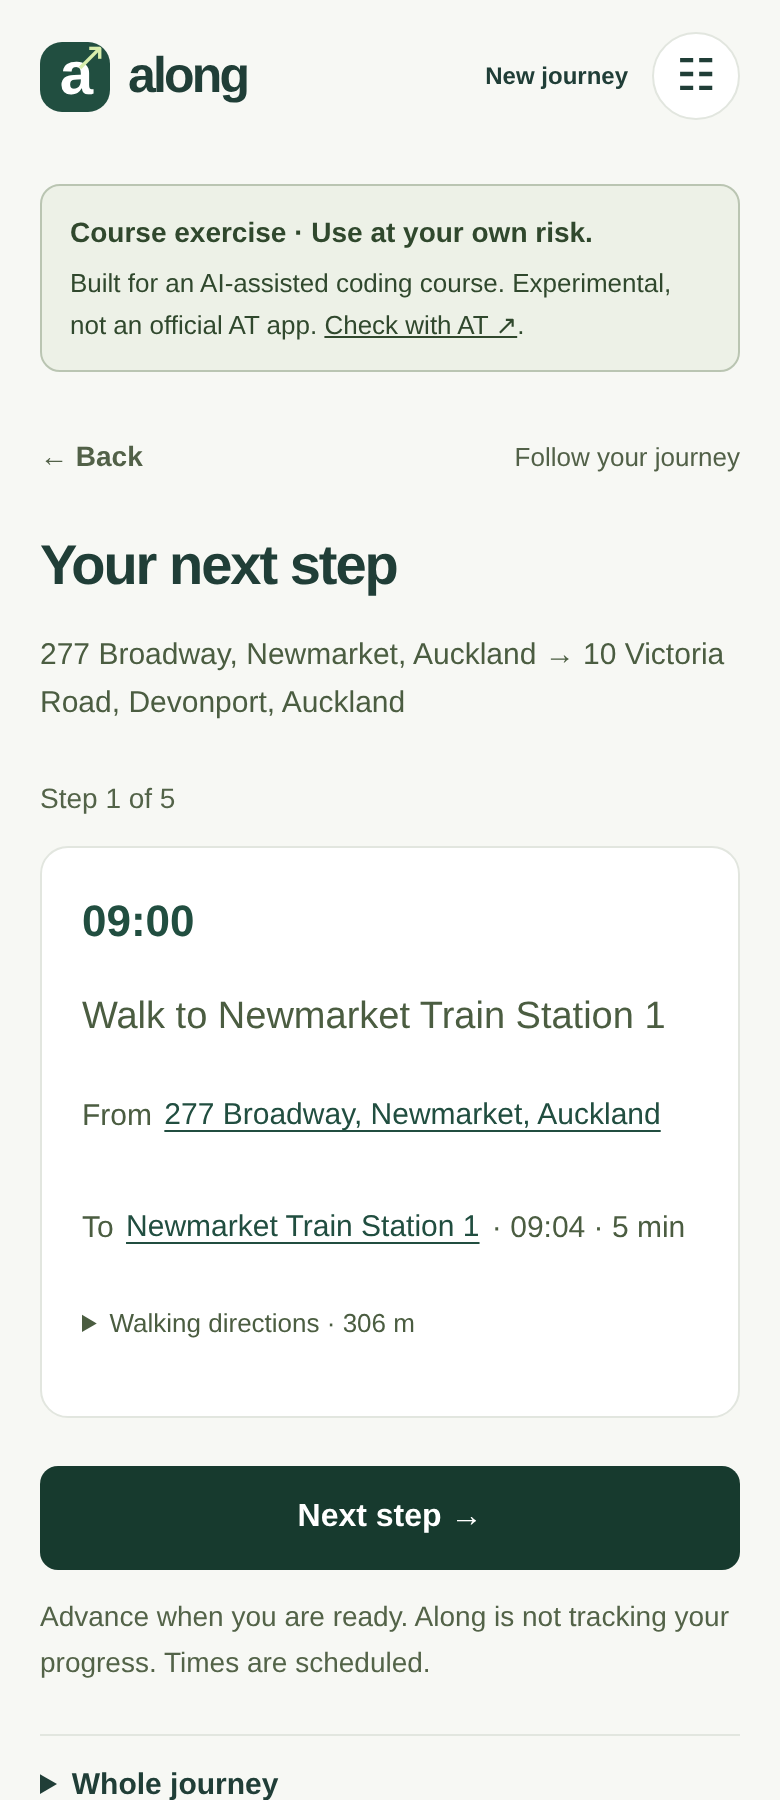
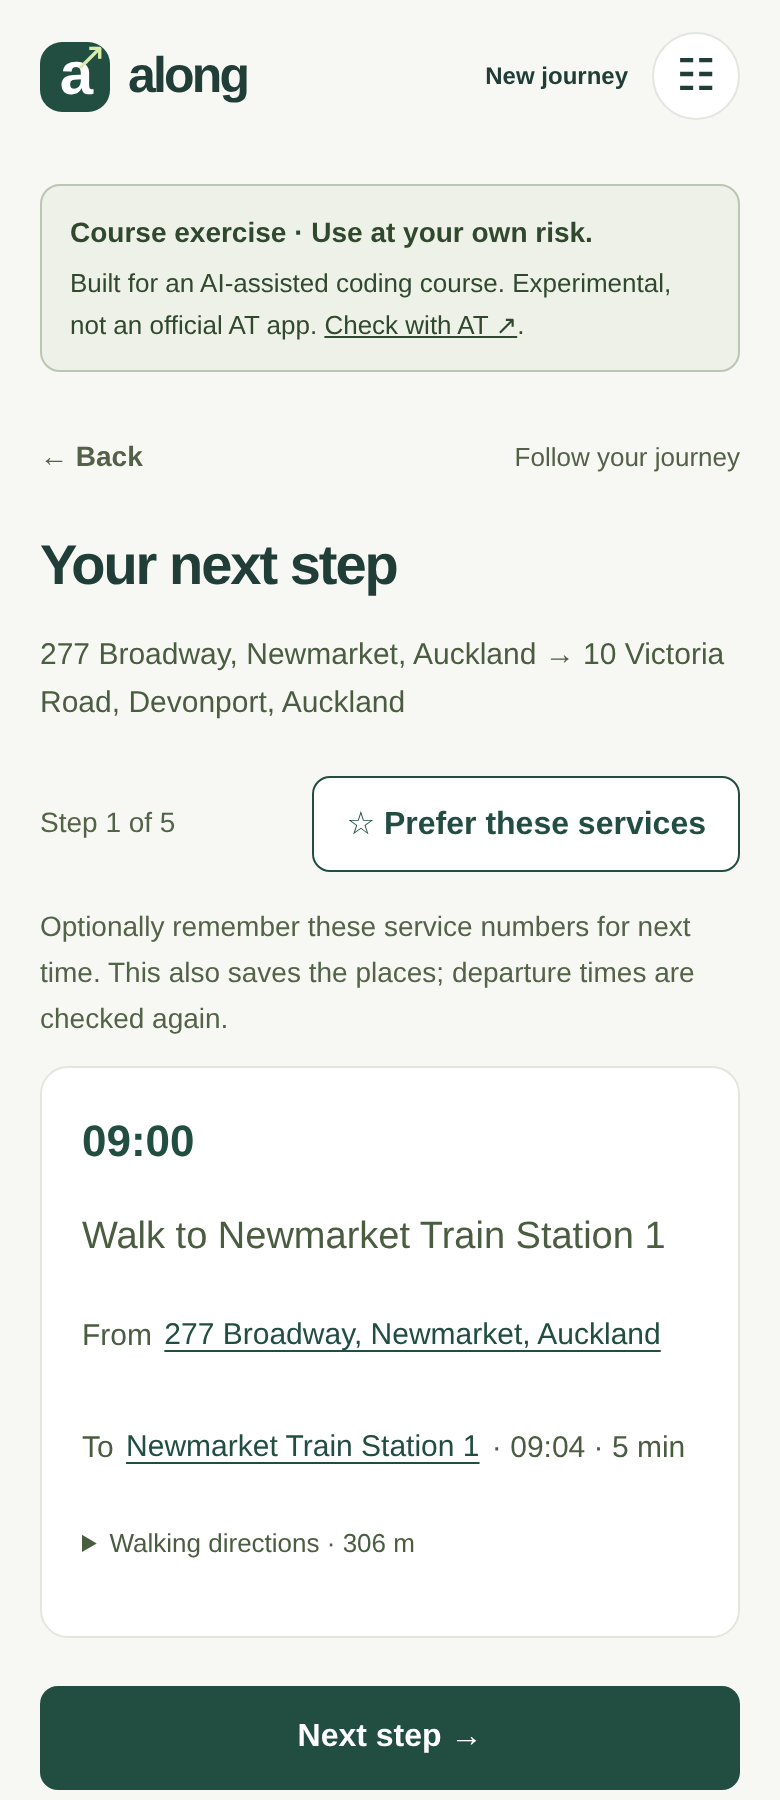
Refresh public UX examples for saved places and departure boards

diff --git a/README.md b/README.md
@@ -96,6 +96,11 @@ online OpenStreetMap background, not live vehicle tracking. Tap a screenshot to 
 <td width="50%"><a href="docs/screenshots/03-follow.png"><img src="docs/screenshots/03-follow.png" width="100%" alt="The journey view shows the current walking step and Next step action."></a></td>
 <td width="50%"><a href="docs/screenshots/04-route-map.png"><img src="docs/screenshots/04-route-map.png" width="100%" alt="Route 70's published path and stop markers over a street-map background, with scheduled-service choices below."></a></td>
 </tr>
+<tr><th>Save places before choosing a route</th><th>Read scheduled stop departures</th></tr>
+<tr>
+<td width="50%"><a href="docs/screenshots/05-save-places.png"><img src="docs/screenshots/05-save-places.png" width="100%" alt="The review screen offers Save these places before finding a route, without saving a departure time."></a></td>
+<td width="50%"><a href="docs/screenshots/06-departures.png"><img src="docs/screenshots/06-departures.png" width="100%" alt="A departure board labels times as scheduled, not live, with linked route numbers and destinations."></a></td>
+</tr>
 </table>
 
 Screenshots are reproducible with `node scripts/capture_ux.mjs` against a running
